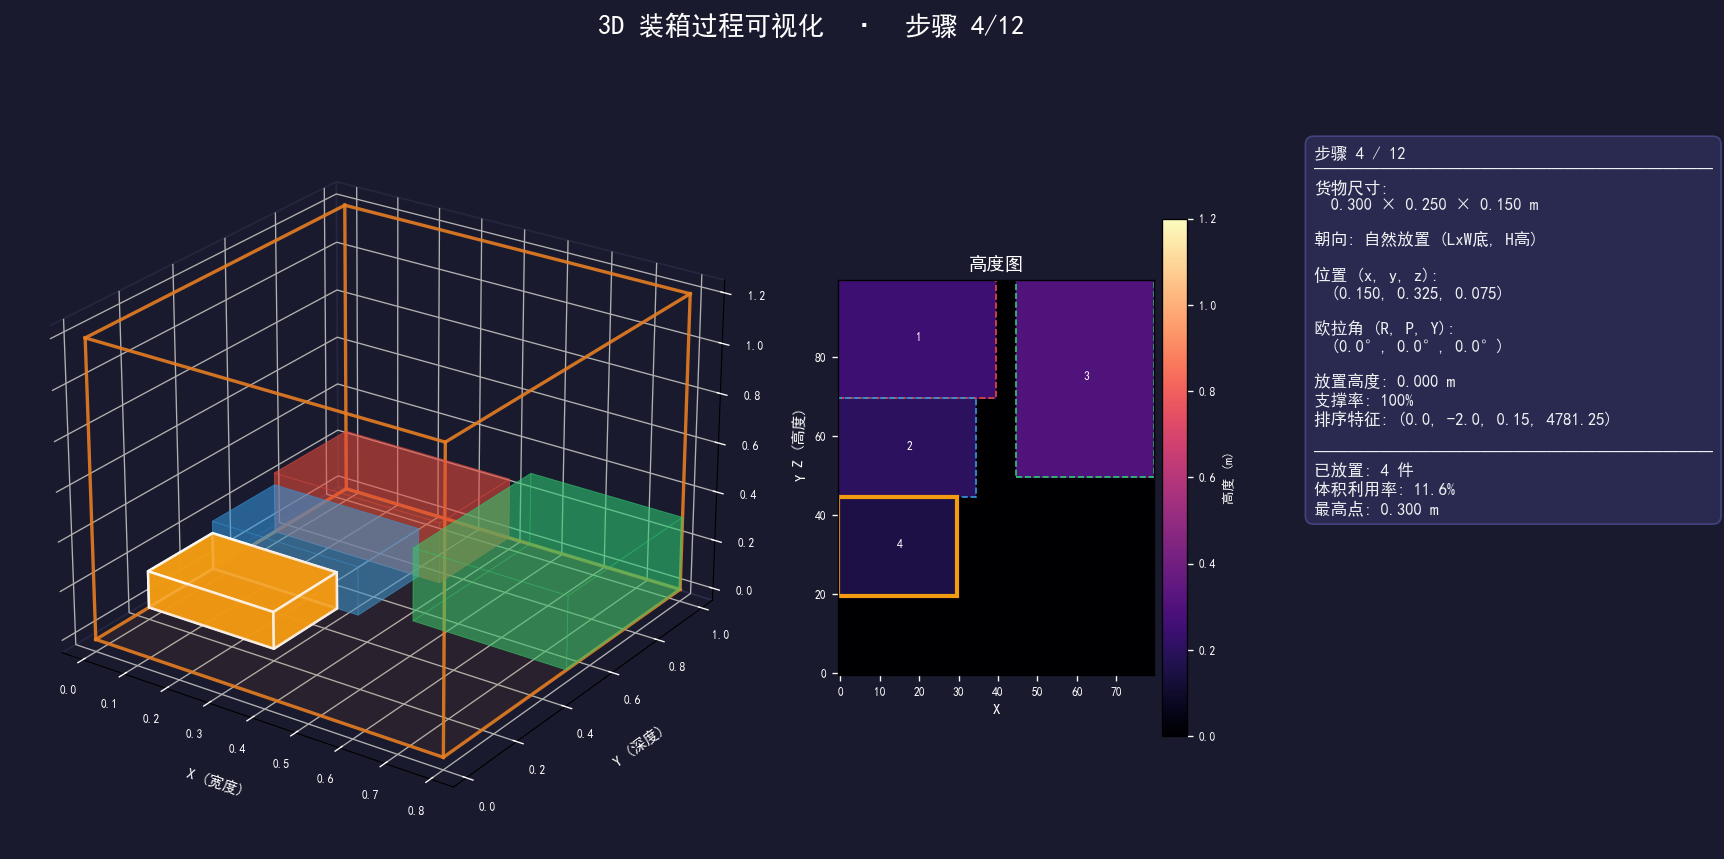
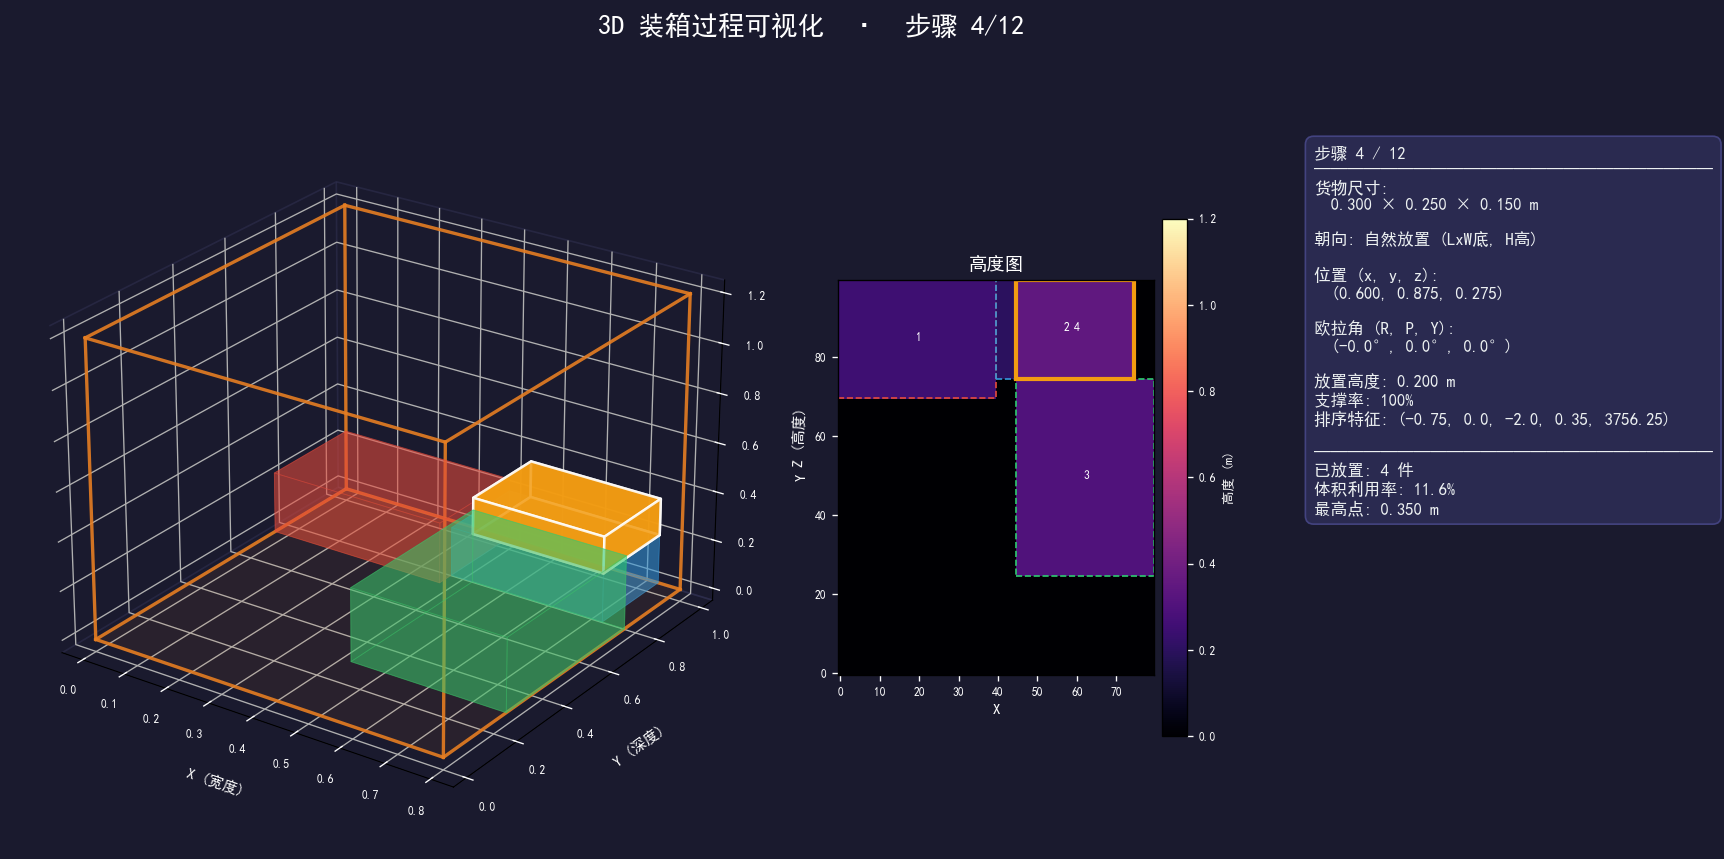
feat: update packing planner logic and document space fit analysis with generated visualization steps

diff --git a/packing_planner.py b/packing_planner.py
@@ -454,7 +454,8 @@ class PackingPlanner:
         # 提取用于字典序比较的物理特征
         sort_key = self._compute_lexicographical_keys(
             row, col, item_rows, item_cols,
-            place_height, up_dim, hm
+            place_height, up_dim, hm,
+            base_x=base_x, base_y=base_y
         )
         
         return {
@@ -515,15 +516,77 @@ class PackingPlanner:
     # 字典序特征提取系统 (Lexicographical Keys)
     # ------------------------------------------------------------------
     
+    def _compute_max_available_area(self,
+                                      hm: np.ndarray,
+                                      row: int, col: int,
+                                      item_rows: int, item_cols: int,
+                                      place_height: float) -> float:
+        """
+        计算候选位置处可容纳的最大长方体底面面积（Best-Fit 策略）。
+
+        以物品占位区为种子，沿上下左右 4 个方向逐列/逐行扩展，
+        直到碰到高于 place_height 的障碍物或笼壁。
+
+        注：使用底面面积而非体积，避免笼顶附近 available_height 缩小
+        导致 fit_ratio 被人为抬高的失真问题。高度优化由 P3 (z_max) 独立负责。
+
+        Parameters
+        ----------
+        hm : np.ndarray
+            当前高度图。
+        row, col : int
+            候选放置起始行列。
+        item_rows, item_cols : int
+            物品占位行列数。
+        place_height : float
+            放置高度（物品底面高度）。
+
+        Returns
+        -------
+        float : 最大可用底面面积（平方米）。
+        """
+        total_rows, total_cols = hm.shape
+
+        # "同层"阈值：cell 高度不超过放置面 + 5mm 容差
+        threshold = place_height + 0.005
+
+        # --- 向左扩展 ---
+        left = col
+        while left > 0 and np.all(hm[row:row + item_rows, left - 1] <= threshold):
+            left -= 1
+
+        # --- 向右扩展 ---
+        right = col + item_cols
+        while right < total_cols and np.all(hm[row:row + item_rows, right] <= threshold):
+            right += 1
+
+        # --- 向外扩展 (小 row 方向) ---
+        front = row
+        while front > 0 and np.all(hm[front - 1, left:right] <= threshold):
+            front -= 1
+
+        # --- 向里扩展 (大 row 方向) ---
+        back = row + item_rows
+        while back < total_rows and np.all(hm[back, left:right] <= threshold):
+            back += 1
+
+        expanded_width = (right - left) * self.processor.resolution
+        expanded_depth = (back - front) * self.processor.resolution
+
+        return expanded_width * expanded_depth
+
     def _compute_lexicographical_keys(self,
                                       row: int, col: int,
                                       item_rows: int, item_cols: int,
                                       place_height: float,
                                       up_dim: float,
-                                      heightmap: np.ndarray) -> tuple:
+                                      heightmap: np.ndarray,
+                                      base_x: float = 0.0,
+                                      base_y: float = 0.0) -> tuple:
         """
         计算用于字典序排序的特征元组 (用于比较，越小越好)。
         
+        P0: -fit_ratio   (空间匹配度，越大越优 → 取负越小越好)
         P1: void_volume  (底部空隙体积，越小越好)
         P2: -adjacency   (四周贴合度，越大越优，取负后变为越小越好)
         P3: z_max        (放置后的最高点，越小越好)
@@ -531,6 +594,18 @@ class PackingPlanner:
         """
         region = heightmap[row:row+item_rows, col:col+item_cols]
         total_rows = self.processor.grid_rows
+        
+        # P0: fit_ratio (空间匹配度，Best-Fit 策略)
+        # 使用底面面积比而非体积比，避免笼顶附近 available_height 缩小导致 ratio 失真
+        item_area = base_x * base_y
+        if item_area > 0:
+            available_area = self._compute_max_available_area(
+                heightmap, row, col, item_rows, item_cols, place_height
+            )
+            fit_ratio = item_area / available_area if available_area > 0 else 1.0
+            fit_ratio = min(fit_ratio, 1.0)
+        else:
+            fit_ratio = 0.0
         
         # P1: void_volume
         if place_height <= 0:
@@ -553,8 +628,8 @@ class PackingPlanner:
         dist_x = center_col                # 距离左侧的列数
         corner_dist = dist_y**2 + dist_x**2
         
-        # 防止浮点比较异常，圆整
-        return (round(float(void_volume), 6), -round(float(adjacency), 4), round(float(z_max), 4), round(float(corner_dist), 2))
+        # 防止浮点比较异常，圆整 (fit_ratio 保留2位小数做适度分桶)
+        return (-round(float(fit_ratio), 2), round(float(void_volume), 6), -round(float(adjacency), 4), round(float(z_max), 4), round(float(corner_dist), 2))
         
     def _compute_adjacency(self, row, col, item_rows, item_cols, new_top, heightmap):
         """就算物体四周紧贴现有箱体或笼壁的比例，总分为4。"""

diff --git a/space_fit_analysis.md b/space_fit_analysis.md
@@ -1,0 +1,140 @@
+# 空间匹配度策略分析 — P1 优化 vs 新增 P0
+
+## 1. 当前 P1 (void_volume) 到底在做什么
+
+```python
+void_heights = place_height - region        # 物品底面与下方表面的高度差
+void_volume = sum(max(0, void_heights)) * r^2   # 积分得到底部"悬空气泡"体积
+```
+
+**物理含义**：测量物品底面与支撑表面之间的"空气间隙"总体积。
+
+```
+      +──────────────+ ← place_height (物品底面)
+      |  ████████████|
+      |  ████ void ██| ← 这些空隙就是 void_volume
+      |  ██████ █████|
+   ───+──+───+──+────+─── ← 高度图表面 (不平)
+         |已有|  |已有|
+```
+
+**它能做到的**：
+- 倾向选择表面平坦的位置（void=0 最好）
+- 避免在阶梯状表面上方悬空放置
+
+**它做不到的**：
+- 不区分"小物品放大空间" vs "小物品放小空间"
+- 地面放置时所有位置 void=0，完全无区分力
+
+## 2. 你提出的"空间匹配度"到底在解决什么
+
+**核心思想**（类似内存分配的 Best-Fit 策略）：
+
+> 评估候选位置处"可用空间体积"与"物品体积"的匹配程度。
+> 优先选择刚好能容纳物品的紧凑空间，将大空间留给未来的大物品。
+
+```
+场景：空笼底面，要放一个 10x10x10cm 的小物品
+
+位置A：笼子里侧角落，左/后墙壁+右边已有物品 -> 可用空间约 12x15x120cm
+  fit_ratio = (10x10x10) / (12x15x120) = 0.046  <- 太浪费了
+
+位置B：两个已有物品之间的窄缝 -> 可用空间约 12x10x50cm
+  fit_ratio = (10x10x10) / (12x10x50) = 0.167   <- 更合适
+
+位置C：恰好有个小凹槽 -> 可用空间约 11x11x12cm
+  fit_ratio = (10x10x10) / (11x11x12) = 0.689   <- 最佳匹配！
+```
+
+## 3. 对比分析
+
+| 维度 | P1: void_volume | 空间匹配度 (fit_ratio) |
+|------|----------------|----------------------|
+| **测量对象** | 物品底面下方的纵向间隙 | 候选位置处可用的最大长方体空间 |
+| **物理含义** | "放下去之后底面贴合程度" | "这个空间是不是为这个物品量身定做的" |
+| **空笼区分力** | 全部 void=0 无法区分 | 角落空间小(ratio高) vs 中间空间大(ratio低) |
+| **堆叠层区分力** | 不平表面有区分 | 上层凹槽空间更紧凑 |
+| **计算复杂度** | O(item_area) 极快 | O(heightmap) 需要扩展搜索 |
+| **策略层级** | 战术级（表面质量） | 战略级（空间分配） |
+
+## 4. 结论：应添加为新的 P0，而非替换 P1
+
+**理由**：
+
+1. **两者测量维度正交**：void_volume 测量纵向贴合，fit_ratio 测量整体空间匹配，互不替代
+2. **策略层次不同**：空间匹配是更高层级的决策（"放哪个区域"），void_volume 是更低层级的决策（"区域内哪个精确位置"）
+3. **保留 void_volume 的安全价值**：在同样紧凑的空间中，void_volume 仍能区分平坦 vs 不平坦表面
+
+**新排序策略**：
+
+```
+(P0: -fit_ratio,  P1: void_volume,  P2: -adjacency,  P3: z_max,  P4: corner_dist)
+  ^  空间匹配度    ^  底部空隙       ^  贴合度        ^  高度     ^  里左角距离
+  越大越好(取负)   越小越好         越大越好(取负)   越小越好   越小越好
+```
+
+## 5. 可用最大长方体空间的计算方法
+
+核心问题：给定候选位置 (row, col) 和放置高度 place_height，如何高效计算该处的"最大可用长方体空间"？
+
+### 算法：从物品占位区向四方向扩展
+
+```python
+def _compute_max_available_volume(self, hm, row, col, item_rows, item_cols,
+                                   place_height, up_dim):
+    """
+    计算候选位置处可容纳的最大长方体可用空间体积。
+
+    方法：以物品占位区为种子，沿 4 个方向逐步扩展，
+    直到碰到高于 place_height 的障碍物或笼壁。
+    可用高度 = cage_height - place_height。
+    """
+    total_rows, total_cols = hm.shape
+    top_z = place_height  # 可用空间的底面高度
+
+    # 向上可用高度
+    available_height = self.processor.cage_height - top_z
+    if available_height <= 0:
+        return 0.0
+
+    # 从物品占位区开始，向四个方向扩展寻找同层空白区边界
+    # "同层" = 该 cell 的高度 <= place_height（物品可以坐在上面）
+
+    # 向左扩展
+    left = col
+    while left > 0 and np.all(hm[row:row+item_rows, left-1] <= top_z + 0.005):
+        left -= 1
+
+    # 向右扩展
+    right = col + item_cols
+    while right < total_cols and np.all(hm[row:row+item_rows, right] <= top_z + 0.005):
+        right += 1
+
+    # 向外扩展（小 row 方向）
+    front = row
+    while front > 0 and np.all(hm[front-1, left:right] <= top_z + 0.005):
+        front -= 1
+
+    # 向里扩展（大 row 方向）
+    back = row + item_rows
+    while back < total_rows and np.all(hm[back, left:right] <= top_z + 0.005):
+        back += 1
+
+    expanded_width  = (right - left) * self.processor.resolution
+    expanded_depth  = (back - front) * self.processor.resolution
+
+    return expanded_width * expanded_depth * available_height
+```
+
+### fit_ratio 计算
+
+```python
+item_volume = base_x * base_y * up_dim
+available_volume = _compute_max_available_volume(...)
+fit_ratio = item_volume / available_volume  if available_volume > 0  else 1.0
+# fit_ratio in (0, 1]，越接近 1 越好 -> 取负后越小越好
+```
+
+> [!TIP]
+> fit_ratio 应该做适当的分桶圆整（如保留 2 位小数），避免微小的浮点差异
+> 过度压制后续的 P1-P4 排序维度。
